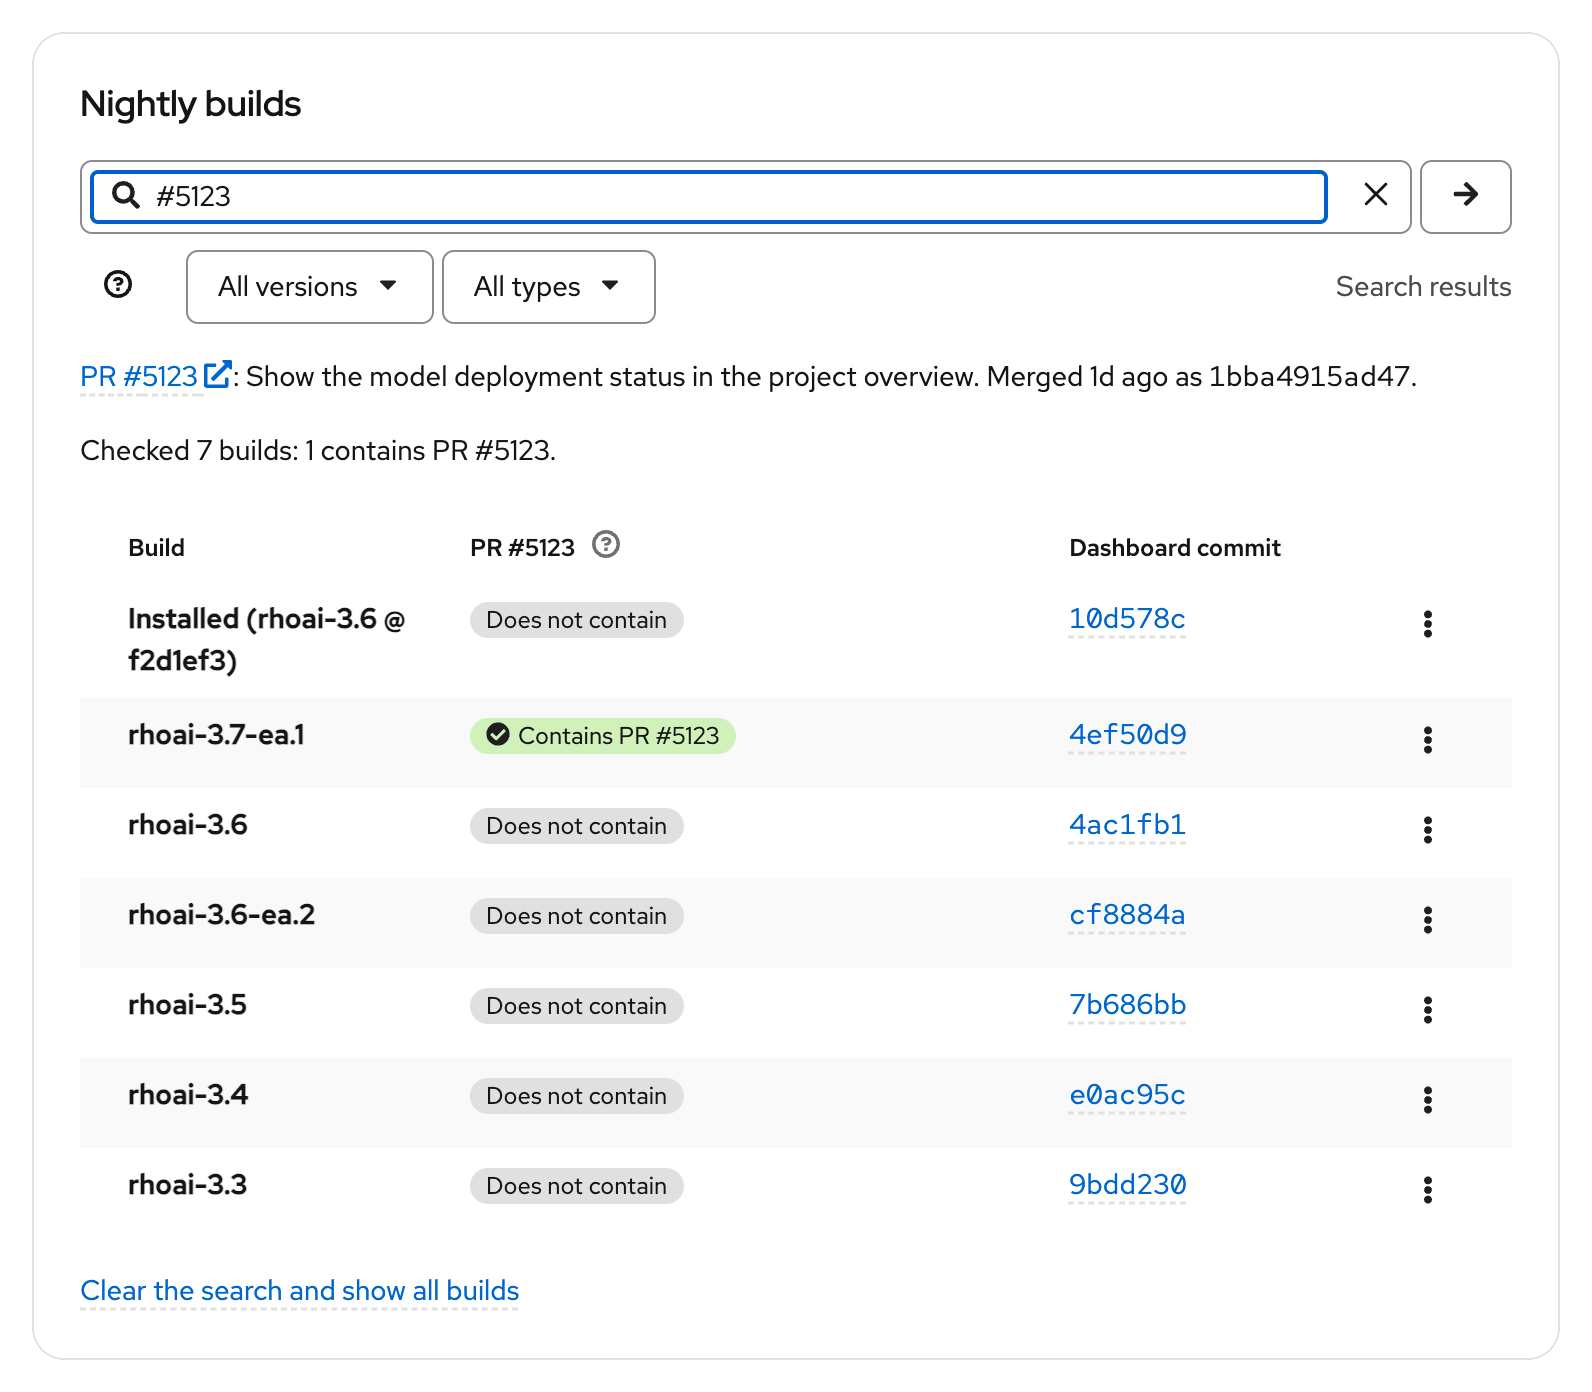
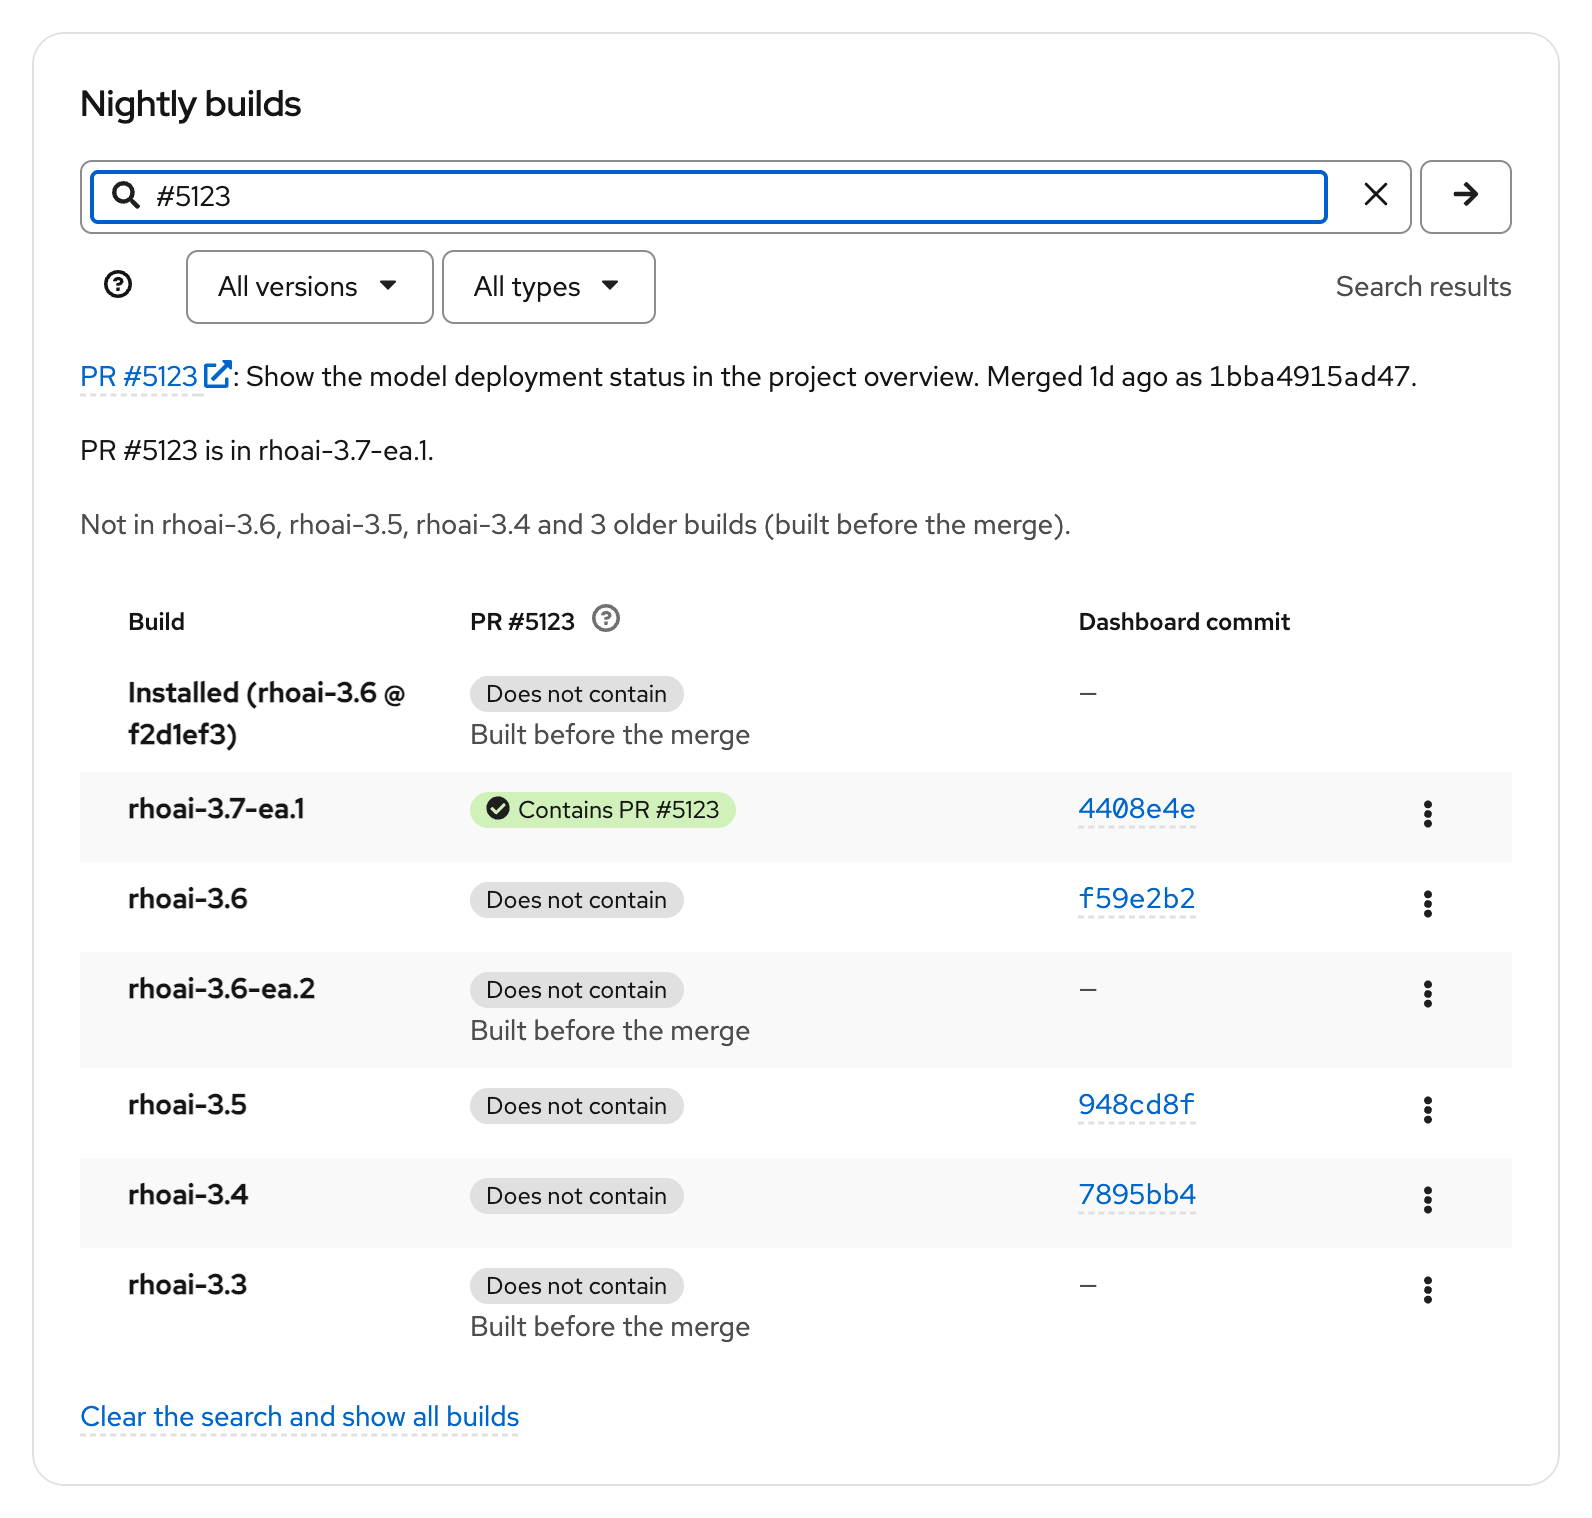
Docs: the Build Explorer search, its mock and images
README's "Build Explorer PR search" becomes "Build Explorer search": what
can be searched (PR URLs of any component, upstream commit SHAs), how
containment is decided, the date cutoff and the GitHub quota; the two
links to it follow. The RUNBOOK names "merge commit not in the fork".
The docs mock answers commit= and any repo, and its PR answers mark the
builds older than the merge, so the screenshot and the GIF show the
answer sentence. The subtle line runs the named builds into the count
("rhoai-3.6, rhoai-3.5 and 3 older builds"). CHANGELOG 2.3.0 lists it all.

diff --git a/frontend/src/components/ContainsSearchResults.test.tsx b/frontend/src/components/ContainsSearchResults.test.tsx
@@ -49,7 +49,9 @@ describe("the words of the answer", () => {
       result("rhoai-3.0", { result: "unknown", reason: "rate_limited" }),
     ];
     expect(detailLine("pr", results, "odh-dashboard")).toBe(
-      "Not in rhoai-3.6 (installed) and rhoai-3.5 and 2 older builds (built before the merge). 3 builds could not be checked (GitHub rate limit, merge commit not in the fork).");
+      "Not in rhoai-3.6 (installed), rhoai-3.5 and 2 older builds (built before the merge). 3 builds could not be checked (GitHub rate limit, merge commit not in the fork).");
+    expect(detailLine("pr", [...results.slice(1, 4), ...["a", "b", "c", "d"].map((t) => result(t, { result: "not_contained" }))], "odh-dashboard")).toBe(
+      "Not in rhoai-3.6 (installed), rhoai-3.5, 4 more builds and 1 older build (built before the merge).");
     expect(detailLine("commit", results.slice(3, 4), "odh-dashboard")).toBe("Not in 1 build built before the commit.");
     expect(detailLine("commit", results.slice(6, 7), "kserve")).toBe("1 build could not be checked (commit not in the fork).");
     expect(detailLine("pr", [result("rhoai-3.6", { result: "unknown", reason: "no_component_image" })], "data-science-pipelines")).toBe(

diff --git a/frontend/src/components/ContainsSearchResults.tsx b/frontend/src/components/ContainsSearchResults.tsx
@@ -73,8 +73,11 @@ export function detailLine(kind: ContainsQuery["kind"], results: ContainsSearchR
   const older = results.filter((r) => r.answer.result === "not_contained" && !!r.answer.reason).length;
   const unknown = results.filter((r) => r.answer.result === "unknown");
   const parts: string[] = [];
-  if (named.length > 0 && older > 0) parts.push(`Not in ${listNames(named)} and ${plural(older, "older build")} (${before}).`);
-  else if (named.length > 0) parts.push(`Not in ${listNames(named)}.`);
+  if (named.length > 0 && older > 0) {
+    // The names run into the count: "rhoai-3.6, rhoai-3.5 and 3 older builds".
+    const listed = named.length <= 4 ? named.join(", ") : `${named[0]}, ${named[1]}, ${named.length - 2} more builds`;
+    parts.push(`Not in ${listed} and ${plural(older, "older build")} (${before}).`);
+  } else if (named.length > 0) parts.push(`Not in ${listNames(named)}.`);
   else if (older > 0) parts.push(`Not in ${plural(older, "build")} ${before}.`);
   if (unknown.length > 0) {
     const reasons = unknownReasons(kind, name);

diff --git a/docs/tools/capture.js b/docs/tools/capture.js
@@ -332,7 +332,7 @@ async (page) => {
 
     async builds() {
       await open("/builds", "update-available");
-      const search = page.getByPlaceholder("Image, commit SHA or PR #");
+      const search = page.getByPlaceholder("Image, commit SHA, PR # or PR URL");
       await search.fill("#5123");
       await search.press("Enter");
       await wait(1500);
@@ -508,7 +508,7 @@ async (page) => {
       await open("/builds", "update-available");
       gif("build-explorer-pr-search", await mainClip(640));
       await frame(1000);
-      const search = page.getByPlaceholder("Image, commit SHA or PR #");
+      const search = page.getByPlaceholder("Image, commit SHA, PR # or PR URL");
       await clickShown(search, 600);
       for (const ch of "#5123") {
         await search.type(ch);

diff --git a/README.md b/README.md
@@ -53,7 +53,7 @@ Below it, the Deployments table lists problems first, with pod details, git prov
 
 <img src="docs/images/build-explorer-pr-search.gif" alt="Typing #5123 in the build search lists which nightly builds contain that PR" width="760">
 
-Every nightly tag on Quay: filter, see the contents of a build, compare it with the installed one, and search by image, commit SHA or PR number (`#5123`). See [PR search](#build-explorer-pr-search) for its limits.
+Every nightly tag on Quay: filter, see the contents of a build, compare it with the installed one, and search by image, commit SHA, PR number (`#5123`) or PR URL. See [Build Explorer search](#build-explorer-search) for what it can find and how it decides.
 
 ### Dashboard Dev: try an odh-dashboard PR
 
@@ -164,11 +164,20 @@ Each re-checks its precondition right before acting and reports "Nothing to do" 
 
 **If the updater pod restarts mid-operation.** On SIGTERM the pod stops taking new changes (503, "restarting") and reports not ready. It then waits up to 980 s for the running operation: its 15-minute deadline plus a bounded restore and bookkeeping. `terminationGracePeriodSeconds` is 1020 and the strategy is `Recreate`, so rollouts never overlap. A deleted or evicted pod is replaced at once while it still drains, so every operation also holds a lease in the operation ConfigMap: the replacement shows the old pod's operation as running "on updater pod ..." and refuses changes until it ends (a crashed pod's lease expires after 45 s). oauth-proxy exits immediately, so **the UI is offline for up to ~17 minutes** in that case. If the pod is killed anyway (SIGKILL, node loss), the next pod finds the operation marker and shows "*X* was interrupted" with what to do. Re-running the same operation is safe. Diagrams: [RUNBOOK §5](RUNBOOK.md#5-operations-busy-stuck-interrupted).
 
-## Build Explorer PR search
+## Build Explorer search
 
-Type `#123` or `PR 123` to see which nightlies contain a merged opendatahub-io/odh-dashboard PR. The tool checks up to 40 builds. A build "contains" the PR when its dashboard commit includes the PR's merge commit (GitHub compare in red-hat-data-services/odh-dashboard). **Limitation:** a PR that reached a release branch only as a cherry-pick has a different SHA, so it shows as *not contained*.
+The search box on the Build Explorer takes:
 
-GitHub allows 60 unauthenticated requests per hour **per egress IP**, which every user of the pod shares. One uncached search costs about one call per build. Answers are cached, so repeats are free. Dashboard Dev's "commits behind main" uses the same quota, one call per container. Set a `GITHUB_TOKEN` (5000/hour); without it, once the limit is hit, commit dates stay blank, PR search reports the rate limit until GitHub's reset time, and Dashboard Dev shows *Distance from main unknown*.
+- a build reference (`quay.io/rhoai/rhoai-fbc-fragment:<tag>@sha256:...`), which shows that build's contents;
+- `#123` or `PR 123`: which nightlies contain that merged opendatahub-io/odh-dashboard PR;
+- the URL of a GitHub PR (or `owner/name#123`) of any RHOAI component repository, for example `https://github.com/opendatahub-io/data-science-pipelines/pull/42`;
+- a commit SHA (7 to 40 characters): which nightlies contain it. An odh-dashboard commit, upstream or in the fork, is checked by containment; a commit GitHub does not know there is matched exactly against the commit each component image was built from.
+
+PR and commit searches cover the installed build and the builds the filters list (up to 40), and answer in one sentence: *PR #5123 is in rhoai-3.7-ea.1 and rhoai-3.6.* A search is in the page URL (`/builds?q=%235123`), so it can be shared; Dashboard Dev's containers card links to it with **Find in nightlies**.
+
+How "contains" is decided: RHOAI images are built from the `red-hat-data-services` forks, whose release branches merge upstream, so an upstream PR's merge commit (or an upstream commit) keeps its SHA in the fork. The build's component image names its commit in its labels; GitHub compare says whether that commit includes the merge commit. A build pushed before the PR was merged (or before the commit) cannot contain it and is answered from its build date alone, without a read. A fork that cherry-picks or rebases instead of merging does not have the merge commit; its builds show as *Unknown (merge commit not in the fork)*, never as *Does not contain*. **Limitation:** a dashboard PR cherry-picked to a release branch has a different SHA there, so that branch's builds show *Does not contain*.
+
+GitHub allows 60 unauthenticated requests per hour **per egress IP**, which every user of the pod shares. One uncached search costs about one call per build that is newer than the merge. Answers are cached, so repeats are free. Dashboard Dev's "commits behind main" uses the same quota, one call per container. Set a `GITHUB_TOKEN` (5000/hour); without it, once the limit is hit, commit dates stay blank, the search reports the rate limit until GitHub's reset time, and Dashboard Dev shows *Distance from main unknown*.
 
 ## Configuration
 

diff --git a/CHANGELOG.md b/CHANGELOG.md
@@ -39,8 +39,47 @@ only accepts a tag whose version is the top dated section. See
   time instead of failing. Anonymous GitHub allows 60 requests per hour per
   egress IP; `GITHUB_TOKEN` on the Deployment raises it to 5000. Off in the
   gitops profile like the rest of Dashboard Dev.
+- The Build Explorer search takes the URL of a GitHub PR (or `owner/name#N`)
+  of any RHOAI component repository, not only `#N` of
+  opendatahub-io/odh-dashboard: `GET /api/build-explorer/contains` accepts
+  any `repo` and finds the build's component image by its `git.url` label,
+  the `red-hat-data-services` fork of that name (or the repository itself),
+  instead of an allowlist and a fixed image name. A compare that GitHub
+  answers 404 is reported as *Unknown (merge commit not in the fork)*: the
+  fork cherry-picks or rebases instead of merging upstream, so the build
+  cannot be checked; it is never reported as *Does not contain*.
+- A commit SHA is searched by containment, like a PR: the same route takes
+  `commit=` (7 to 40 hex), resolves it on the repository and then on the fork
+  (upstream odh-dashboard SHAs exist in the fork, which merges `upstream/main`)
+  and compares each build's component commit with it. Only when GitHub knows
+  the commit nowhere does the page fall back to the old scan for a component
+  image built from exactly that commit, and says so. The response describes a
+  commit with `commit`, `commitDate`, `commitTitle` and `commitURL`.
+- The search results start with one sentence: *PR #5123 is in rhoai-3.7-ea.1
+  and rhoai-3.6.*, *No build contains PR #5123 yet: it was merged 2h ago,
+  after the newest build (9h ago).* or *No build contains PR #5123.*, with a
+  subtle line for the rest (*Not in rhoai-3.5 and 4 older builds (built
+  before the merge). 3 builds could not be checked (GitHub rate limit).*).
+- `/builds?q=<text>` runs that search once the builds are listed, and
+  submitting a search writes it to the URL, so a search can be shared. The
+  Status page's `?image=` link keeps working.
+- Dashboard Dev's containers card links each PR or main build's commit to
+  the Build Explorer search for it (*Find in nightlies*).
 
 ### Changed
+
+- A nightly pushed before the PR was merged (or before the searched commit)
+  cannot contain it, so the search answers it from the build's date label
+  alone: *Does not contain, built before the merge*, with no catalog or
+  GitHub read. The page does the same for the builds whose date it already
+  has, without a request. A PR search over 25 builds now reads only the
+  builds newer than the merge.
+- The image label cache holds 10000 entries instead of 2000 (25 builds x
+  165 images), so a search over every build stays warm.
+- Wording: the commit search's finished line no longer says that later builds
+  also contain the commit; a build whose component image has no commit label
+  names that image; the help popover and the placeholder (*Image, commit SHA,
+  PR # or PR URL*) list what can be searched.
 
 - Deploy latest main writes the build under its commit tag,
   `quay.io/opendatahub/<repo>:<commit tag>@sha256:...`, so the page and

diff --git a/RUNBOOK.md b/RUNBOOK.md
@@ -249,12 +249,13 @@ Alerts: `NightlyUpdaterDown` (target down or absent for 5 m), `NightlyUpdateFail
 ## 8. Build Explorer, Quay and GitHub
 
 - **Tags don't load / Quay errors:** the Quay token is derived from the cluster pull secret. Test it on the Status page, then check `oc logs ... -c app | grep -i quay`.
-- **Commit dates show "-", or PR search reports a rate limit:** GitHub allows 60 requests/hour per egress IP without a token. Set `GITHUB_TOKEN` ([README: Configuration](README.md#configuration)). Results are cached in memory per pod (cleared on restart).
+- **Commit dates show "-", or the Build Explorer search reports a rate limit:** GitHub allows 60 requests/hour per egress IP without a token. Set `GITHUB_TOKEN` ([README: Configuration](README.md#configuration)). Results are cached in memory per pod (cleared on restart).
 - **A PR shows as not contained, but its change is in the build:**
 
   <img src="docs/images/builds-pr-search.png" alt="PR search for #5123: only rhoai-3.7-ea.1 contains it; the release branches do not" width="760">
 
-  In this example only the build from `main` contains the PR. The release branches (`rhoai-3.6`, `rhoai-3.5`, ...) show **Does not contain** even if the change was cherry-picked there, because it arrived as a cherry-pick with a different SHA. PR search only follows merge commits.
+  In this example only the build from `main` contains the PR. The release branches (`rhoai-3.6`, `rhoai-3.5`, ...) show **Does not contain** even if the change was cherry-picked there, because it arrived as a cherry-pick with a different SHA. The search only follows merge commits. Builds older than the merge say **Built before the merge**: they were not read.
+- **Unknown (merge commit not in the fork):** the component's `red-hat-data-services` fork does not have the PR's merge commit (or the searched commit), so GitHub cannot compare. The dashboard fork merges upstream `main`, so its builds are always comparable; other forks may cherry-pick or rebase instead, and their builds cannot be checked by this search. Look at the build's component commit (the link in the row) on GitHub instead.
 
 ## 9. Dashboard Dev
 

diff --git a/docs/QUICKSTART.md b/docs/QUICKSTART.md
@@ -183,7 +183,7 @@ Optional, for testing pipelines in the dashboard. Open **Test resources**.
 | Switch to stable, another nightly, or an exact older build | Status → Recovery → **Reinstall...** (downgrades need a confirmation checkbox) |
 | Test an odh-dashboard PR or main | Dashboard Dev → choose the RHOAI (Konflux) or ODH (OpenShift CI) build → **Deploy PR** or **Deploy latest main**; **Revert to default** when done. The containers card shows each container's commit, how far behind `main` (or the PR) it is, and when a newer build exists |
 | S3 storage (SeaweedFS), pipeline servers, MLflow | Test resources |
-| Which nightly contains PR #N? | Build Explorer → search `#123` ([PR search](../README.md#build-explorer-pr-search)) |
+| Which nightly contains PR #N? | Build Explorer → search `#123` ([Build Explorer search](../README.md#build-explorer-search)) |
 | Something looks wrong | Diagnostics → open the problem; automatic fixes ask for confirmation. [RUNBOOK](../RUNBOOK.md) |
 
 ## Upgrade, roll back or remove the updater
@@ -196,5 +196,5 @@ Optional, for testing pipelines in the dashboard. Open **Test resources**.
 ## Notes
 
 - Metrics and alerts work only with user workload monitoring enabled (OpenShift docs: "Enabling monitoring for user-defined projects"). It is off by default; see [RUNBOOK §7](../RUNBOOK.md#7-metrics-and-alerts).
-- Build Explorer PR search works better with a `GITHUB_TOKEN` (see [README: Configuration](../README.md#configuration)).
+- Build Explorer PR and commit searches work better with a `GITHUB_TOKEN` (see [README: Configuration](../README.md#configuration)).
 - Problems: [RUNBOOK.md](../RUNBOOK.md). Everything the tool changes: [CLUSTER_CHANGES.md](CLUSTER_CHANGES.md).
